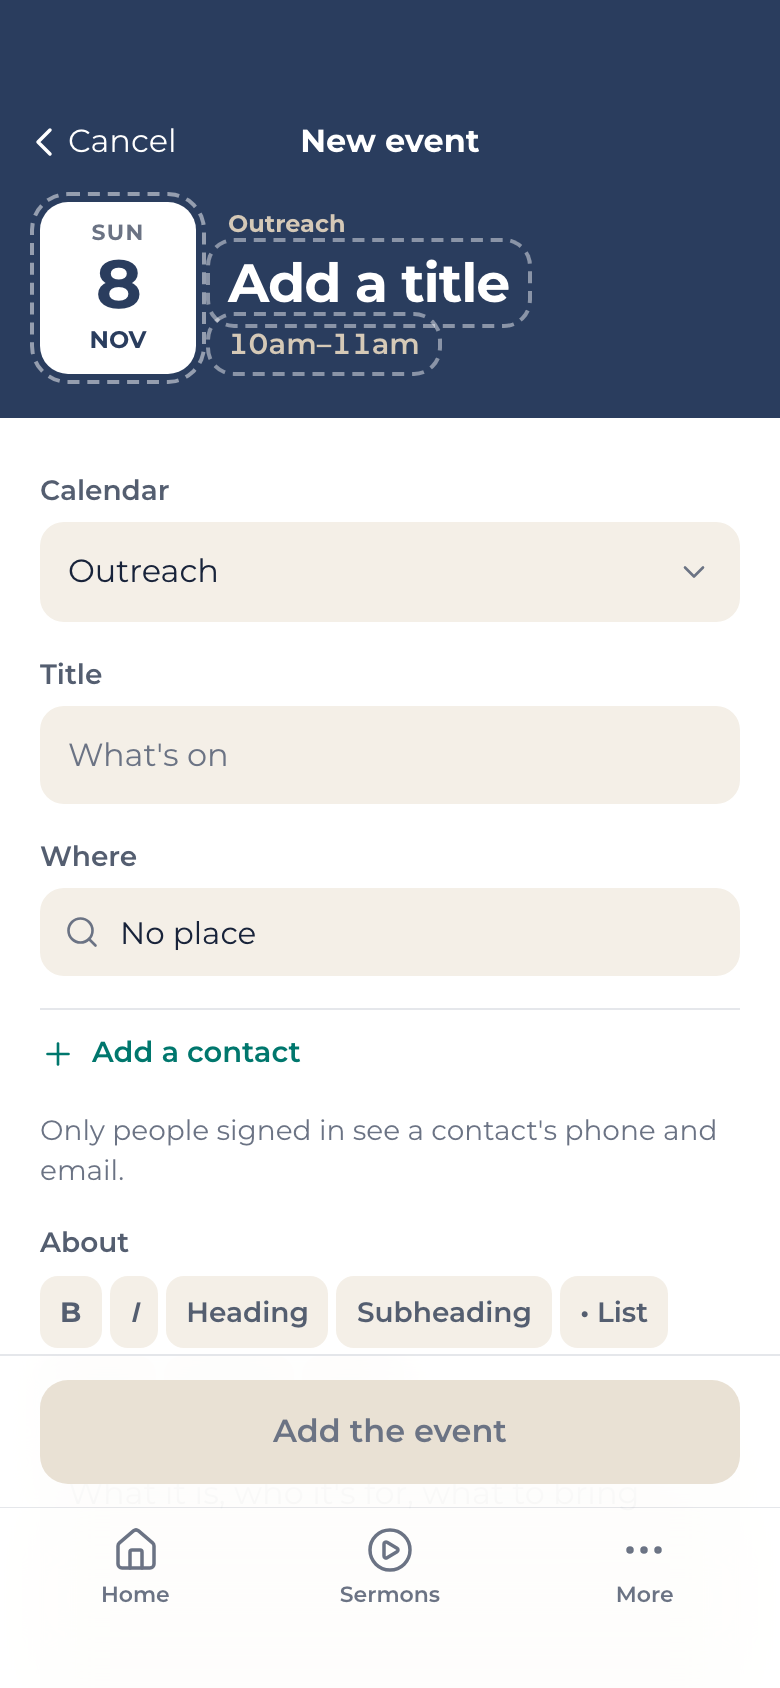
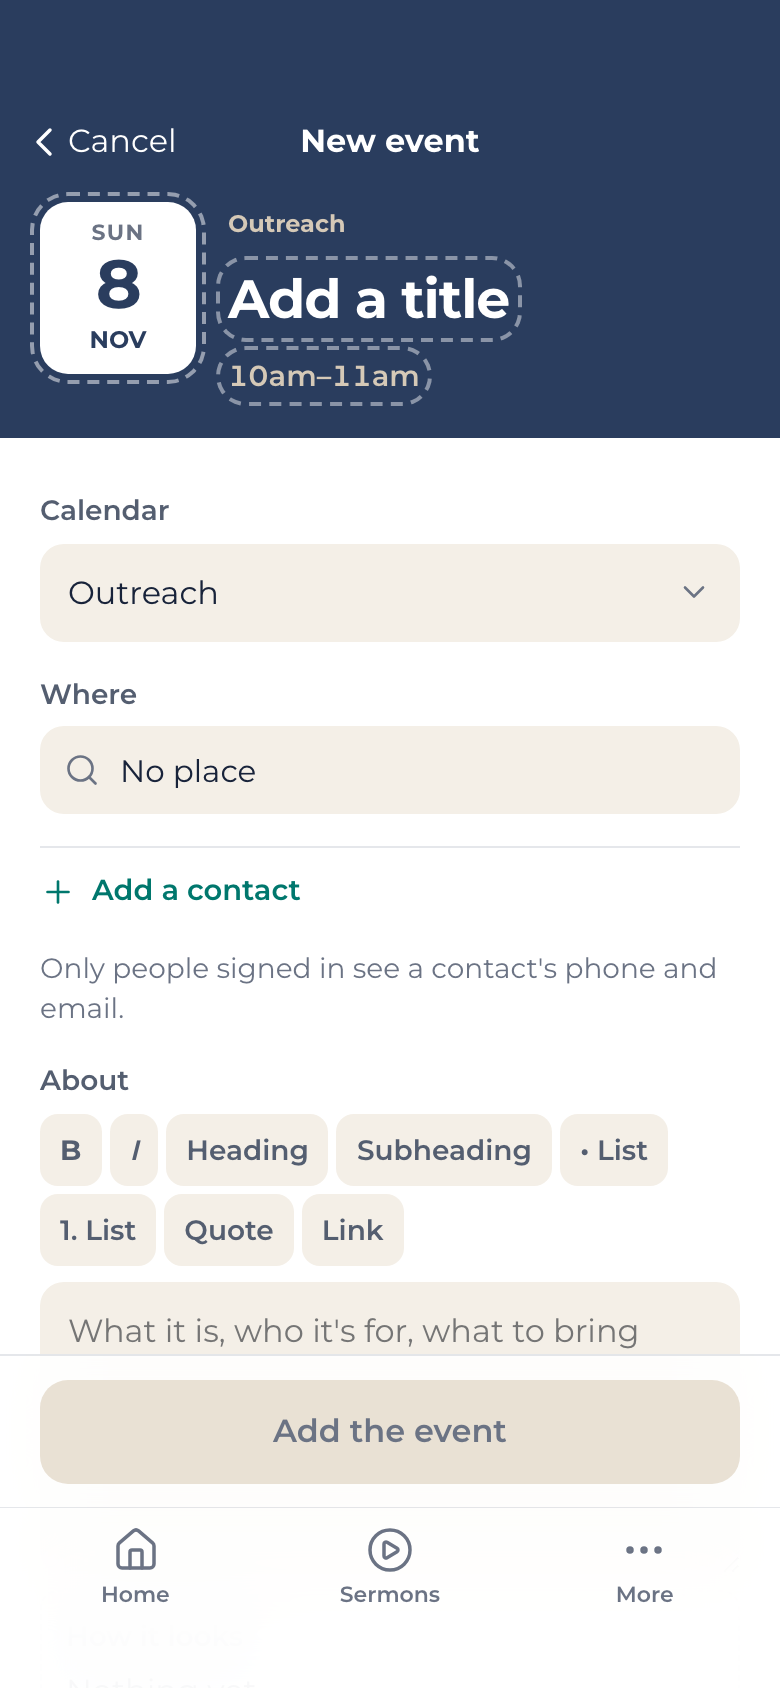
Events screens: finish review fixes (panel actions stay in view, contacts as rows, a calendar's next events by day, one way to the title, no labels above panel titles, editable outlines, rich text width)
Claude-Session: https://claude.ai/code/session_01KqANXeJ6fwNnXXfrsGsez5

diff --git a/src/Features/Events/GSBC.ChurchApp.Features.Events.Client/wwwroot/css/events.css b/src/Features/Events/GSBC.ChurchApp.Features.Events.Client/wwwroot/css/events.css
@@ -42,12 +42,12 @@
 
 .event-head { position: relative; display: flex; align-items: flex-start; gap: 16px; padding: 6px var(--gutter) 22px; overflow: hidden; background: var(--masthead); color: var(--on-masthead); isolation: isolate; }
 .event-head__mark { position: absolute; right: -60px; top: -40px; width: 210px; opacity: 0.07; z-index: -1; pointer-events: none; }
-.event-head__words { display: grid; gap: 6px; min-width: 0; padding-top: 2px; }
+.event-head__words { display: grid; gap: 6px; flex: 1; min-width: 0; padding-top: 2px; }
 .event-head__label { margin: 0; color: var(--masthead-note); font-size: var(--text-pill); font-weight: 700; }
 .event-head__title { margin: 0; color: var(--on-masthead); font-size: var(--text-headline); font-weight: 700; letter-spacing: -0.02em; line-height: 1.15; text-wrap: balance; }
 .event-head__title:focus { outline: none; }
 .event-head__when { margin: 0; color: var(--masthead-note); font-size: var(--text-label); font-weight: 600; font-variant-numeric: tabular-nums; }
-.event-head__editable { justify-self: start; padding: 2px 6px; margin: -2px -6px; border: 0; border-radius: var(--radius-inner); outline: 2px dashed color-mix(in srgb, var(--on-masthead) 45%, transparent); outline-offset: 3px; background: none; font-family: inherit; text-align: left; cursor: pointer; }
+.event-head__editable { justify-self: start; max-width: 100%; padding: 0; margin: 0; border: 0; border-radius: var(--radius-inner); outline: 2px dashed color-mix(in srgb, var(--on-masthead) 45%, transparent); outline-offset: 4px; background: none; font-family: inherit; text-align: left; cursor: pointer; }
 .event-head__editable:hover { background: var(--masthead-chip); }
 .event-head__editable:focus-visible { outline-style: solid; outline-color: var(--marker); }
 .event-head--compact { gap: 12px; padding: 16px; }
@@ -96,7 +96,7 @@
 .editor-foot__actions .btn--block { flex: 1 1 auto; min-width: 0; }
 .editor-foot__actions .btn:not(.btn--block) { flex: none; }
 .editor-foot__delete { justify-self: start; min-height: var(--touch); padding: 0; border: 0; background: none; color: var(--danger); font: inherit; font-size: var(--text-caption); font-weight: 600; cursor: pointer; }
-.editor-foot--panel { position: static; padding: 14px 16px 16px; background: none; backdrop-filter: none; -webkit-backdrop-filter: none; }
+.editor-foot--panel { position: sticky; bottom: 0; padding: 14px 16px 16px; background: var(--surface); backdrop-filter: none; -webkit-backdrop-filter: none; }
 
 .topbar__text-btn { min-height: var(--touch); padding: 0 12px; border: 0; background: none; color: var(--on-masthead); font: inherit; font-size: var(--text-body); font-weight: 600; cursor: pointer; }
 
@@ -119,7 +119,7 @@
 .calendar-workbench { min-height: 100vh; }
 .calendar-workbench .workbench__aside { padding: 24px 18px 32px; }
 .calendar-workbench .workbench__detail { padding: 24px; border-left: 1px solid var(--line); }
-.calendar-workbench .workbench__detail > * { padding: 0; overflow: hidden; }
+.calendar-workbench .workbench__detail > * { padding: 0; overflow: clip; }
 .calendar-aside { display: grid; gap: 14px; }
 .calendar-aside__title { margin: 0 4px; font-size: var(--text-title-lg); font-weight: 700; letter-spacing: -0.02em; }
 .calendar-aside__group { display: grid; gap: 2px; }
@@ -167,3 +167,7 @@
 }
 .calendar-subhead { margin: 24px 0 4px; font-size: var(--text-label); font-weight: 700; }
 .calendar-editors { margin: 0; }
+.event-head--editing .event-head__words { gap: 14px; padding-right: 6px; }
+.contact-row { display: flex; align-items: center; gap: 14px; width: 100%; min-height: var(--row); padding: 10px 0; border: 0; border-top: 1px solid var(--line); background: none; color: var(--ink); font: inherit; text-align: left; cursor: pointer; }
+.contact-row:hover .row__title { color: var(--accent); }
+.calendar-next .week-day { padding: 0; }

diff --git a/src/Platform/GSBC.ChurchApp.Platform.Ui/wwwroot/css/rich-text.css b/src/Platform/GSBC.ChurchApp.Platform.Ui/wwwroot/css/rich-text.css
@@ -94,7 +94,7 @@
     flex: 1 1 16rem;
 }
 
-.rich-text-editor textarea {
+.rich-text-editor .rich-text-input {
     width: 100%;
     box-sizing: border-box;
     border: 0;
@@ -109,7 +109,7 @@
     resize: vertical;
 }
 
-.rich-text-editor textarea:focus {
+.rich-text-editor .rich-text-input:focus {
     outline: none;
     box-shadow: inset 0 0 0 2px var(--accent);
 }
